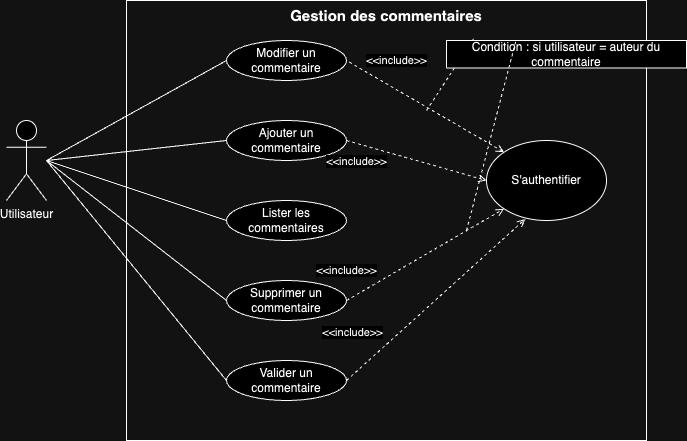
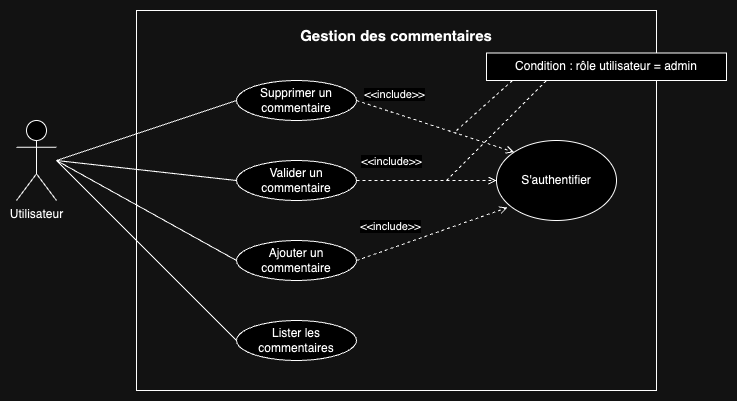
last fix + diagramme + update sql

diff --git a/src/Controller/AdminController.php b/src/Controller/AdminController.php
@@ -178,15 +178,28 @@ class AdminController extends AbstractController
         $successMessage = null;
         $errorMessage = null;
         $postRepository = new PostRepository();
+        $commentRepository = new CommentRepository();
+
         if ($request->query->has('post_id')) {
-            $post = $postRepository->getPostById($request->query->get('post_id'));
+            $postId = $request->query->get('post_id');
+            $post = $postRepository->getPostById($postId);
             if ($post) {
-                if ($postRepository->deletePost($request->query->get('post_id'))) {
+
+                $commentsToDelete = $commentRepository->getCommentsByPostId($postId);
+                foreach ($commentsToDelete as $comment) {
+                    $commentRepository->deleteComment($comment->getId());
+                }
+
+                if ($postRepository->deletePost($postId)) {
                     $successMessage = 'Article : "' . $post->getTitle() . '" a été supprimé avec succès.';
                 } else {
-                    $errorMessage = ' Erreur lors de la suppression';
+                    $errorMessage = 'Erreur lors de la suppression de l\'article';
                 }
+            } else {
+                $errorMessage = 'Article introuvable';
             }
+        } else {
+            $errorMessage = 'Article introuvable';
         }
 
         $posts = $postRepository->getAllPosts();
@@ -197,6 +210,7 @@ class AdminController extends AbstractController
             'message_error' => $errorMessage
         ]);
     }
+
 
     /**
      * Inverse le statut d'un article en tant qu'administrateur.
@@ -422,6 +436,8 @@ class AdminController extends AbstractController
         $errorMessage = null;
 
         $commentRepository = new CommentRepository();
+        $postRepository = new PostRepository();
+        $userRepository = new UserRepository();
 
         if ($this->isUserLoggedInAdmin() && $request->isMethod('GET') && $request->query->has('comment_id')) {
             $comment_id = $request->query->get('comment_id');
@@ -433,11 +449,17 @@ class AdminController extends AbstractController
         }
 
         $comments = array_reverse($commentRepository->getAllComments());
-
+        $arrayAuthor = array();
+        /** @var Comment $comment */
+        foreach ($comments as $comment) {
+            $arrayAuthor[$comment->getId()] = $userRepository->getUserById($comment->getAuthorId())->getUsername();
+        }
         return $this->render('app/admin/list-comments.html.twig', [
             'comments' => $comments,
+            'postRepository' => $postRepository,
             'message_success' => $successMessage,
-            'message_error' => $errorMessage
+            'message_error' => $errorMessage,
+            'arrayAuthor' => $arrayAuthor
         ]);
     }
 
@@ -459,6 +481,8 @@ class AdminController extends AbstractController
         $errorMessage = null;
 
         $commentRepository = new CommentRepository();
+        $postRepository = new PostRepository();
+        $userRepository = new UserRepository();
 
         if ($this->isUserLoggedInAdmin() && $request->isMethod('GET') && $request->query->has('comment_id')) {
             $comment_id = $request->query->get('comment_id');
@@ -476,11 +500,17 @@ class AdminController extends AbstractController
         }
 
         $comments = array_reverse($commentRepository->getAllComments());
-
+        $arrayAuthor = array();
+        /** @var Comment $comment */
+        foreach ($comments as $comment) {
+            $arrayAuthor[$comment->getId()] = $userRepository->getUserById($comment->getAuthorId())->getUsername();
+        }
         return $this->render('app/admin/list-comments.html.twig', [
             'comments' => $comments,
+            'postRepository' => $postRepository,
             'message_success' => $successMessage,
-            'message_error' => $errorMessage
+            'message_error' => $errorMessage,
+            'arrayAuthor' => $arrayAuthor
         ]);
     }
 

diff --git a/src/Controller/CommentController.php b/src/Controller/CommentController.php
@@ -59,13 +59,11 @@ class CommentController extends AbstractController
             if (!$post) {
                 return new Response('Post not found', Response::HTTP_NOT_FOUND);
             }
-
-            if ($commentId === 'new') {
+            if ($commentId == 0) {
                 $commentId = null;
             }
 
             $comment = new Comment();
-
             $comment->setContent($content);
             $comment->setAuthorId($author);
             $comment->setCreatedAt(new DateTimeImmutable());

diff --git a/src/Repository/PostRepository.php b/src/Repository/PostRepository.php
@@ -177,7 +177,6 @@ class PostRepository
     public function deletePost(int $postId): bool
     {
         $db = Db::getInstance();
-
         $sql = "DELETE FROM post WHERE id = :id";
 
         $stmt = $db->prepare($sql);
